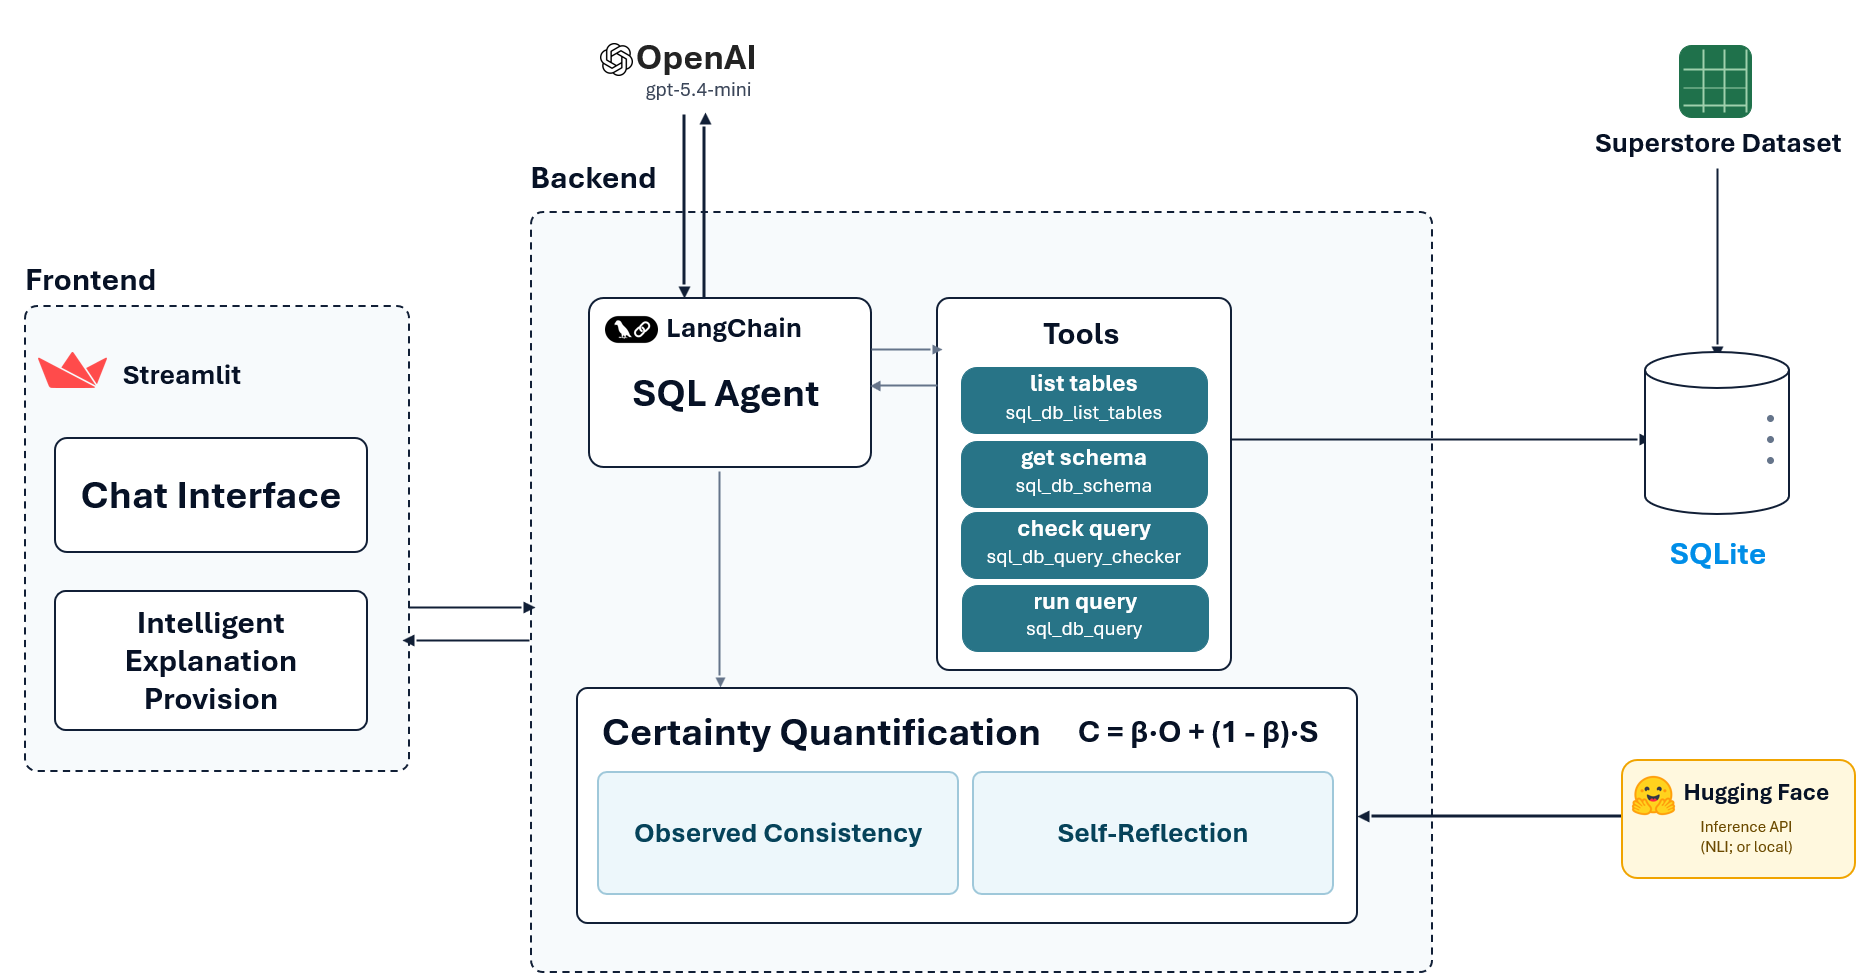
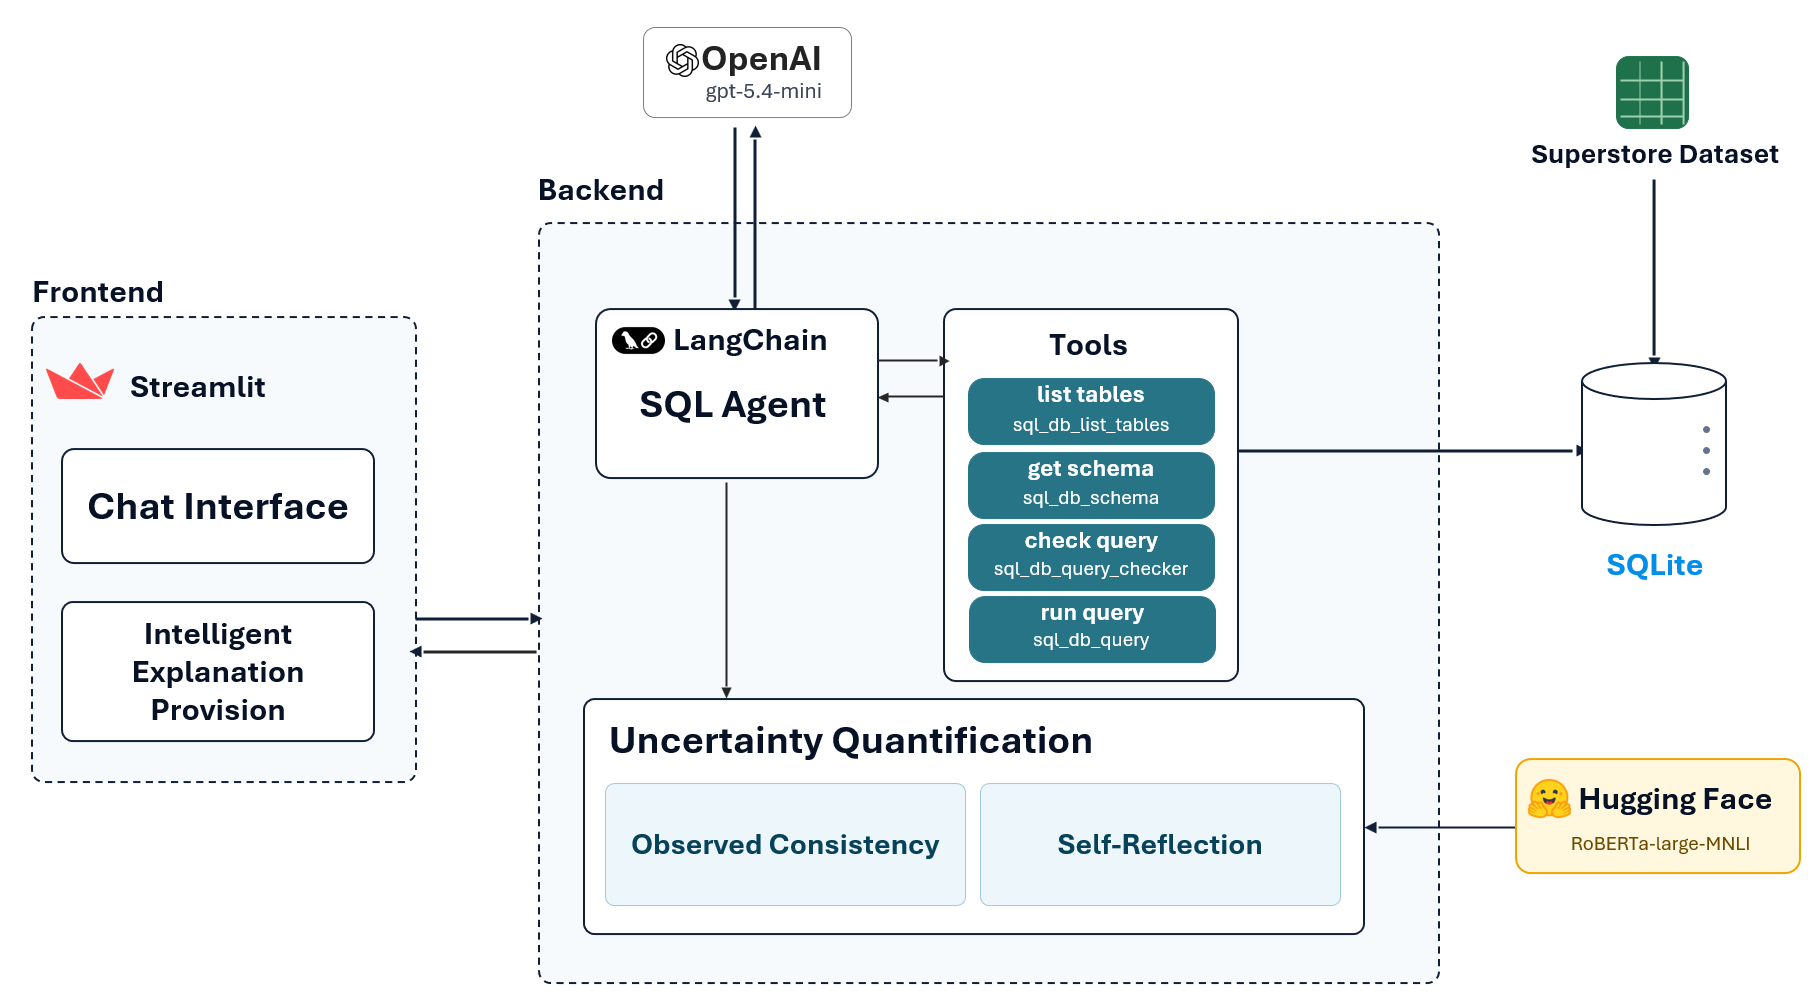
upodate README

diff --git a/README.md b/README.md
@@ -27,8 +27,8 @@ the answer, and it quietly keeps track of how certain it is in each reply.
 - [Technical reference](#technical-reference)
   - [Project layout](#project-layout)
   - [Configuration reference](#configuration-reference)
-  - [How the explanation is shown (and the certainty gate)](#how-the-explanation-is-shown-and-the-certainty-gate)
-  - [Certainty quantification](#certainty-quantification)
+  - [How the explanation is shown (and the uncertainty gate)](#how-the-explanation-is-shown-and-the-certainty-gate)
+  - [Uncertainty quantification](#uncertainty-quantification)
   - [Testing](#testing)
 ---
 
@@ -43,7 +43,7 @@ the answer, and it quietly keeps track of how certain it is in each reply.
 - **Can explain its reasoning.** It can reveal a 
   step-by-step explanation of *how* it reached the answer.
 - **Knows how sure it is.** For every answer that comes from the data, it
-  calculates a behind-the-scenes certainty score and uses it to decide whether
+  calculates a behind-the-scenes uncertainty and uses it to decide whether
   to offer the explanation.
 - **Remembers the conversation** so you can ask follow-up questions.
 
@@ -101,7 +101,7 @@ The project is built in **Python** using:
 - **SQLite** — the spreadsheet is loaded into this small, fast, read-only database
   so the assistant can search it.
 - **PostgreSQL** — a separate database where every interaction is logged.
-- **Certainty quantification** — measures how certain the assistant is about each answer.
+- **Uncertainty quantification** — measures how uncertain the assistant is about each answer.
 
 ---
 
@@ -109,7 +109,7 @@ The project is built in **Python** using:
 
 The diagram below shows the whole system end-to-end: the **Streamlit** chat UI, the
 **LangChain** SQL agent (OpenAI **gpt-5.4-mini**) with its SQL tools, the Superstore
-dataset loaded into a read-only **SQLite** warehouse and the **certainty
+dataset loaded into a read-only **SQLite** warehouse and the **uncertainty
 quantification** (observed-consistency resampling with an NLI model, plus self-reflection).
 
 ![System architecture of the GenAI Analytics Copilot](architecture.png)
@@ -310,15 +310,15 @@ You don't need to repeat the whole setup. Each time you want to use the app:
 
 ### Troubleshooting
 
-| What you see                                                  | What it usually means | How to fix it |
-|---------------------------------------------------------------|-----------------------|----------------|
-| `python` or `pip` "is not recognized"                         | Python isn't on your PATH | Reinstall Python (Step 1) and **tick "Add Python to PATH"**, then restart PowerShell |
-| `running scripts is disabled on this system`                  | Windows is blocking the sandbox activation | Run `Set-ExecutionPolicy -Scope Process -ExecutionPolicy RemoteSigned`, then retry |
+| What you see                                                | What it usually means | How to fix it |
+|-------------------------------------------------------------|-----------------------|----------------|
+| `python` or `pip` "is not recognized"                       | Python isn't on your PATH | Reinstall Python (Step 1) and **tick "Add Python to PATH"**, then restart PowerShell |
+| `running scripts is disabled on this system`                | Windows is blocking the sandbox activation | Run `Set-ExecutionPolicy -Scope Process -ExecutionPolicy RemoteSigned`, then retry |
 | `Failed to start the GenAI analytics copilot` on the web page | The app couldn't reach your database or OpenAI | Re-check `DATABASE_URL` and `OPENAI_API_KEY` in your `.env` (no extra spaces or quotes); make sure the database string is the full `postgresql://…` line |
-| It says the workbook can't be found                           | The Excel file path is wrong | Make sure `(US)Sample-Superstore.xlsx` is in the project folder and `EXCEL_FILE_PATH` in `.env` matches its name |
-| The answer appears but there's no certainty score             | The HuggingFace token is missing or invalid | Add a valid `HF_API_TOKEN` (Step 8), or switch `NLI_BACKEND=local` in `.env` (this downloads the AI libraries instead) |
-| An OpenAI error mentioning a model name                       | Your account can't use the model in `.env` | Change `OPENAI_MODEL` in `.env` to a model your account can access |
-| The browser didn't open                                       | Normal sometimes | Open it yourself and go to http://localhost:8501 |
+| It says the workbook can't be found                         | The Excel file path is wrong | Make sure `(US)Sample-Superstore.xlsx` is in the project folder and `EXCEL_FILE_PATH` in `.env` matches its name |
+| The answer appears but there's no certainty score           | The HuggingFace token is missing or invalid | Add a valid `HF_API_TOKEN` (Step 8), or switch `NLI_BACKEND=local` in `.env` (this downloads the AI libraries instead) |
+| An OpenAI error mentioning a model ![img.png](img.png)name  | Your account can't use the model in `.env` | Change `OPENAI_MODEL` in `.env` to a model your account can access |
+| The browser didn't open                                     | Normal sometimes | Open it yourself and go to http://localhost:8501 |
 
 ---
 
@@ -350,7 +350,7 @@ side by side (see `compose.yaml`).
 OpenAI's LLM is a paid service — you pay OpenAI a small amount each time the
 assistant answers a question. One things to know:
 
-- **The certainty feature multiplies the cost.** To measure how sure it is, the
+- **The uncertainty quantification multiplies the cost.** To measure how sure it is, the
   assistant quietly answers each question several extra times and runs a few
   self-checks — roughly **20+ extra AI calls per data question** with the default
   settings. If you want to cut cost, lower `CONFIDENCE_K` and `CONFIDENCE_ROUNDS`
@@ -405,7 +405,7 @@ The rest of this document is for developers and researchers working on the code.
     │   ├── tokens.py           Token counting + history truncation
     │   ├── steps.py            Prettifies intermediate agent steps
     │   └── explainer.py        Second LLM pass that simplifies steps
-    ├── uncertainty/            Certainty quantification (BSDetector)
+    ├── uncertainty/            Uncertainty quantification (BSDetector)
     │   ├── nli.py              NLI wrapper (local + inference, contradiction probs)
     │   ├── observed.py         Observed Consistency O
     │   ├── reflection.py       Self-Reflection Certainty S
@@ -457,12 +457,12 @@ All settings are read from environment variables (or a `.env` file) via
 > (`(US)Sample-Superstore.xlsx`), which is where the file actually lives. Keep the
 > setting and the file's location in sync.
 
-## How the explanation is shown (and the certainty gate)
+## How the explanation is shown
 
 `app/ui/chat.py` decides whether the step-by-step explanation is shown at all or
 hidden behind a **"See explanation"** button.
 
-## Certainty quantification
+## Uncertainty quantification
 
 Each answer that is **grounded in a database query** is given a numeric certainty
 score, following Chen & Mueller (2024), *"Quantifying Uncertainty in Answers from any Language Model and
@@ -524,7 +524,7 @@ pytest -m "not db"     # pure unit tests only (no Postgres needed)
 pytest --cov=app       # with coverage
 ```
 
-Pure tests cover `tokens.py`, `steps.py`, and the certainty math in
+Pure tests cover `tokens.py`, `steps.py`, and the uncertainty math in
 `app/uncertainty/` (the NLI model and LLM calls are injected as fakes). The
 DB-backed test (`tests/test_repository.py`, marked `db`) spins up an ephemeral
 PostgreSQL via `pytest-postgresql`, runs `initialize_schema`, and exercises the
